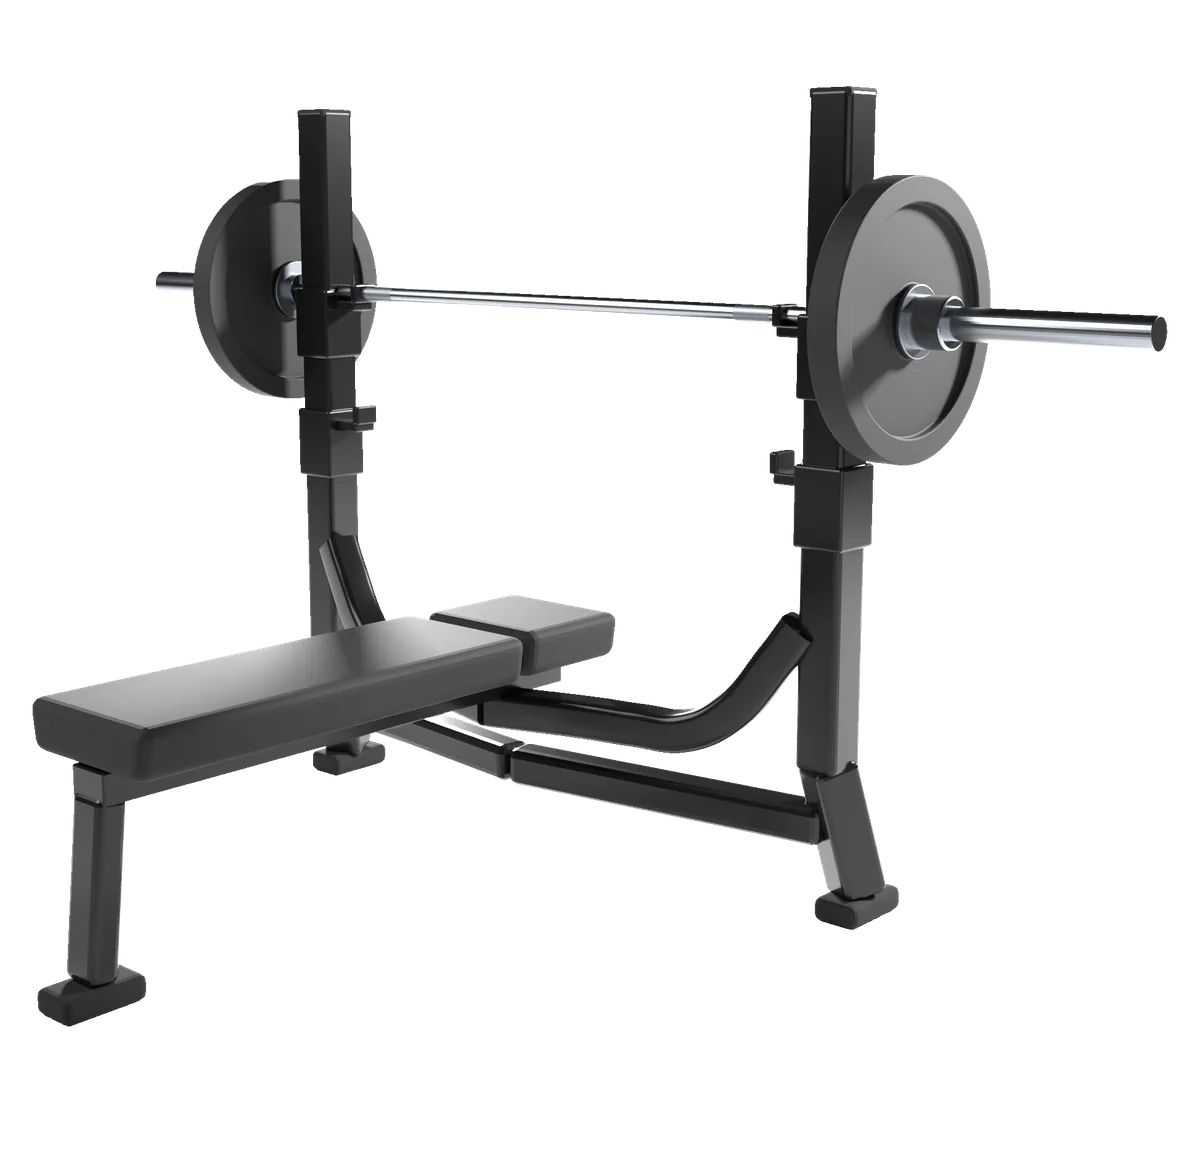
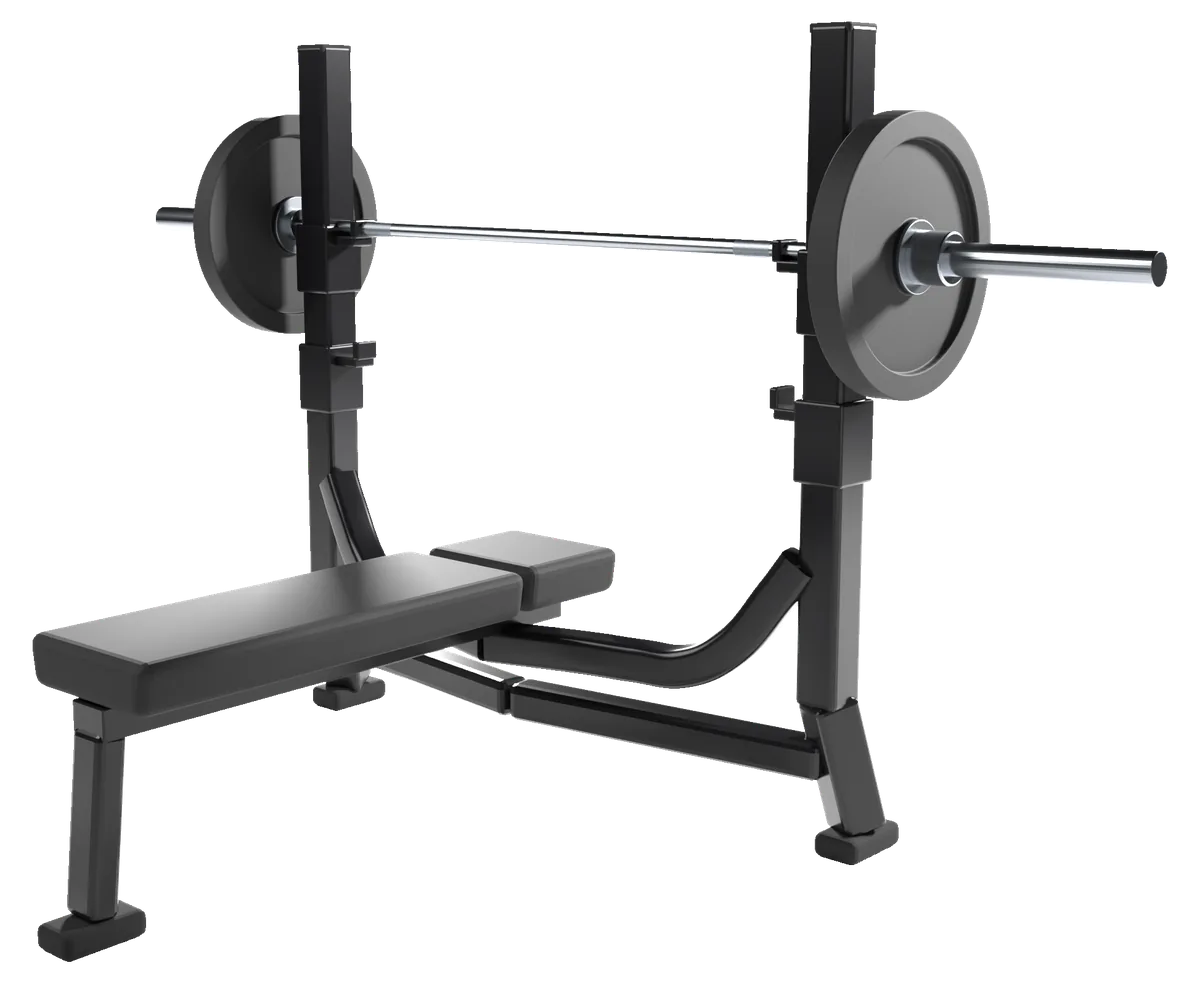
fix(web): the notch cannot crop the bench, and the title sits on it (#99)
The hero shipped as `object-cover` on a box sized 45vh *plus* the status
bar inset. On a 59px notch that box is narrower than the art, so cover
trimmed 31px off each side and cut the end off the bench. Chromium reports
a zero inset, so nothing local showed it.

Two changes remove the class of bug rather than the instance. The inset is
no longer added to the height, so 45% of the screen is 45% of the screen.
And the art is cut to 1.22 — wider than any hero box can be — then laid in
at `w-full` with its natural height, so filling the width is the only
outcome available whatever the inset does. The e2e test sets the inset by
hand at 59px, 47px and 0px and checks the art keeps its aspect at each.

The title moves onto the bench, across the pad and frame with the base
showing below, rather than sitting in the space underneath where it read
as a caption. Its offset is tied to `--hero-h`: pixels drift as the hero
grows, and a percentage padding resolves against the width in CSS.

The image drops to opacity 0.5, since it is now behind text rather than
under it. Measured on the rendered pixels: title 7.6:1 dark and 8.6:1
light, aliases 6.2:1 and 5.8:1, and 5.9:1 for the worst a two-line name
reaches.

diff --git a/apps/web/src/components/ExerciseHero.tsx b/apps/web/src/components/ExerciseHero.tsx
@@ -9,24 +9,39 @@ import { equipmentArt } from './equipment-art.js';
  * no placeholder, because a grey rectangle where a photograph should be is
  * worse than a heading.
  *
+ * ## The render is never cropped, by construction
+ *
+ * It used to be `object-cover` on a box the right shape, which was fine until a
+ * real phone: the hero's height is 45vh *plus the status bar inset*, and a 59px
+ * notch makes the box narrower than the art, so cover trimmed 31px off each
+ * side and cut the end off the bench. Chromium reports a zero inset, so no
+ * amount of testing there would have shown it.
+ *
+ * So the fit no longer depends on the box. The art is cut to 1.22 — wider than
+ * any hero can be, since the tallest case is a narrow phone with a big notch —
+ * and the image is laid in at `w-full` with its natural height. Filling the
+ * width is then the only outcome available, whatever the inset does to the
+ * height, and the slack lands at the top, behind the status bar, where it is
+ * wanted. `max-h-full` is there for a landscape window and nothing else.
+ *
  * ## Why the image is dimmed rather than darkened
  *
  * The bench is black and grey and the page is #1f1e1d, so the render has very
  * little room between "invisible" and "competing with the title". Three things
- * share the work, and only the first two touch the image:
+ * share the work, and only the first touches the image:
  *
- *  - **Opacity 0.65.** Inside the brief's 0.6–0.7. The bar and plates are the
- *    lit parts of the render and stay clearly readable; the frame drops to a
- *    shade above the page.
- *  - **A short top wash**, 60% of the page colour fading out by 30%. It exists
- *    for the status bar and the back button, not for the image.
+ *  - **Opacity 0.5.** The title sits *on* the bench rather than under it, so
+ *    the render has to sit further back than it would as a backdrop below the
+ *    text. The bar and plates are the lit parts and still read.
+ *  - **A short top wash**, 50% of the page colour fading out by a quarter. It
+ *    exists for the status bar and the back button, not for the image.
  *  - **A long bottom wash** reaching the full page colour before the hero ends,
  *    so there is no seam where the image stops — the page simply continues.
  *
  * The title gets its contrast from the third of those, not from a shadow or a
- * glow. Measured on the rendered pixels it sits on at least 86% page colour,
- * which is 14:1 against `--text-primary` in both themes — so the gradient alone
- * clears AA with room to spare and the image never has to go darker.
+ * glow. Measured on the rendered pixels it sits on at least 81% page colour,
+ * which clears AA several times over in both themes — so the gradient alone
+ * does it and the image never has to go darker.
  *
  * ## Both themes, from one asset
  *
@@ -59,34 +74,43 @@ export function ExerciseHero({
 
   return (
     <div
-      // `-mx-4` cancels the page's gutter so the render reaches both edges, and
-      // the height carries the status bar inset on top of its own, so the image
-      // runs up behind the clock rather than starting under it.
-      className="relative -mx-4 h-[calc(clamp(300px,45vh,400px)+var(--spacing-safe-top))] overflow-hidden"
+      // `-mx-4` cancels the page's gutter so the render reaches both edges. The
+      // box starts at the very top of the screen — the page drops its own top
+      // inset when a hero is present — so 45% of the screen is 45% of the
+      // screen, notch included, rather than 45% plus a notch.
+      className="relative -mx-4 h-[var(--hero-h)] overflow-hidden [--hero-h:clamp(300px,45vh,400px)]"
     >
-      <img
-        src={art.hero}
-        alt=""
+      {/* Bottom-aligned inside the box, so the bench always lands in the same
+          place relative to the title and the notch only ever changes how much
+          page shows above it. */}
+      <div aria-hidden className="absolute inset-0 flex items-end pb-6">
+        <img
+          src={art.hero}
+          alt=""
+          className="max-h-full w-full object-contain object-bottom opacity-50"
+        />
+      </div>
+      <div
         aria-hidden
-        className="absolute inset-0 size-full object-cover opacity-65"
+        className="absolute inset-x-0 top-0 h-[25%] bg-linear-to-b from-base/50 to-base/0"
       />
       <div
         aria-hidden
-        className="absolute inset-x-0 top-0 h-[30%] bg-linear-to-b from-base/60 to-base/0"
-      />
-      <div
-        aria-hidden
-        className="absolute inset-x-0 bottom-0 h-[62%] bg-linear-to-t from-base from-13% via-base/72 via-48% to-base/0"
+        className="absolute inset-x-0 bottom-0 h-[70%] bg-linear-to-t from-base from-7% via-base/68 via-45% to-base/0"
       />
 
       <div className="relative flex h-full flex-col px-4 pt-safe-top">
         <div className="pt-6">
           <HeaderLink to="/exercises">← All exercises</HeaderLink>
         </div>
-        {/* Pushed to the bottom, where the wash is at its strongest. A long
-            name growing to two lines therefore grows upward into the calm part
-            of the image rather than down towards the chips. */}
-        <div className="mt-auto pb-5">
+        {/* Across the bench itself, not under it — a quarter of the hero up
+            from the bottom, which lands on the pad and the frame and leaves the
+            base showing below. Tied to `--hero-h` rather than set in pixels so
+            it stays on the same part of the bench at every hero size; a
+            percentage would resolve against the width and drift. A long name
+            growing to two lines grows upward into the calmer part of the
+            image rather than down towards the chips. */}
+        <div className="mt-auto pb-[calc(var(--hero-h)*0.25)]">
           <h1 className="text-2xl font-semibold text-balance text-primary">{name}</h1>
           {aliases.length > 0 && (
             <p className="mt-1 text-sm text-secondary">Also called {aliases.join(', ')}</p>

diff --git a/e2e/tests/exercise-hero.spec.ts b/e2e/tests/exercise-hero.spec.ts
@@ -2,45 +2,56 @@ import { expect, test } from '@playwright/test';
 import { createUser } from './support/backend.js';
 import { signIn } from './support/app.js';
 
+/** The aspect the hero art is cut to. The bench fills it corner to corner. */
+const ART_ASPECT = 1200 / 984;
+
 /**
  * The render behind an exercise's title.
  *
- * One exercise has a hero and fifty-two do not, so the two things worth holding
- * are that the one with a render gets a full-bleed image and exactly one title,
- * and that the ones without keep the plain header they have always had. A
- * second <h1> would be the obvious regression — the hero carries the name, and
- * the detail below it used to.
+ * The thing worth holding is that the render is never cropped. It shipped once
+ * as `object-cover` on a box sized 45vh *plus the status-bar inset*, which on a
+ * notched phone is narrower than the art — so cover trimmed both ends off the
+ * bench. Chromium reports a zero inset and showed none of it, so the inset is
+ * set by hand here and the art's aspect is checked at each one.
  */
-test('an exercise with a hero wears it full-bleed, and one without is unchanged', async ({
-  page,
-}) => {
+test('the hero fills the width and is never cropped, whatever the notch', async ({ page }) => {
   const user = await createUser('hero', { onboarded: true });
   await signIn(page, user);
 
+  await page.setViewportSize({ width: 393, height: 852 });
   await page.goto('/#/exercises/barbell-bench-press');
   const title = page.getByRole('heading', { level: 1, name: 'Barbell Bench Press' });
   await expect(title).toBeVisible();
   // The name is said once. It lived in the detail block before the hero took it.
   await expect(page.getByRole('heading', { level: 1 })).toHaveCount(1);
 
-  // Edge to edge: `-mx-4` cancelling the page gutter is what makes this a hero
-  // rather than a picture in a column, and it is one class away from being lost.
   const hero = page.locator('img[src*="bench-press-hero"]');
   await expect(hero).toBeVisible();
-  const frame = await hero.boundingBox();
-  const width = page.viewportSize()?.width ?? 0;
-  expect(frame?.x).toBeCloseTo(0, 0);
-  expect(frame?.width).toBeCloseTo(width, 0);
-  // Behind the status bar, not under it.
-  expect(frame?.y).toBeCloseTo(0, 0);
-  // Roughly 45% of the screen, per the brief, and never the whole of it.
-  const height = page.viewportSize()?.height ?? 0;
-  expect(frame?.height ?? 0).toBeGreaterThan(height * 0.3);
-  expect(frame?.height ?? 0).toBeLessThan(height * 0.55);
 
-  // The way back is still there, over the image.
+  // A big notch, a small one, and none: the art keeps its shape through all of
+  // them, which is what says no edge of the bench has been trimmed off.
+  for (const inset of ['59px', '47px', '0px']) {
+    await page.evaluate((value) => {
+      document.documentElement.style.setProperty('--spacing-safe-top', value);
+    }, inset);
+    const frame = await hero.boundingBox();
+    expect(frame, inset).not.toBeNull();
+    expect(frame?.x, inset).toBeCloseTo(0, 0);
+    expect(frame?.width, inset).toBeCloseTo(393, 0);
+    expect((frame?.width ?? 0) / (frame?.height ?? 1)).toBeCloseTo(ART_ASPECT, 2);
+  }
+  await page.evaluate(() => {
+    document.documentElement.style.removeProperty('--spacing-safe-top');
+  });
+
+  // The title sits on the render rather than under it.
+  const frame = await hero.boundingBox();
+  const text = await title.boundingBox();
+  expect(text?.y ?? 0).toBeGreaterThan(frame?.y ?? 0);
+  expect((text?.y ?? 0) + (text?.height ?? 0)).toBeLessThan((frame?.y ?? 0) + (frame?.height ?? 0));
+
+  // The way back is still there, over the image, and the aliases under the name.
   await expect(page.getByRole('link', { name: '← All exercises' })).toBeVisible();
-  // And the aliases still sit under the name.
   await expect(page.getByText(/^Also called bench, bp/)).toBeVisible();
 
   // An exercise with no render keeps the plain header: no image, same title.

diff --git a/DECISIONS.md b/DECISIONS.md
@@ -4834,8 +4834,10 @@ one, and the app now has a 3D bench that the list was already showing at 56px.
 ### Decision
 
 **A hero render behind the title, for exercises that have one.** Full-bleed,
-running up behind the status bar, about 45% of the screen. The title sits over
-its lower third and the page continues underneath with no seam.
+running up behind the status bar, about 45% of the screen. The title sits *on*
+the bench — across the pad and frame, with the base still showing below it —
+rather than in the space underneath, where it read as a caption under a
+photograph instead of a title over one.
 
 **One table for both surfaces.** `equipment-art.ts` maps an exercise slug to an
 `{ icon, hero }` pair, and both the list square and the page hero read it. Two
@@ -4844,13 +4846,26 @@ its own page, which is the sort of thing nobody notices until it is everywhere.
 Adding a piece of kit is one constant and one line; adding an exercise to kit
 that already exists is one line.
 
-**Three things do the dimming, and only two touch the image.** Opacity 0.65, a
-short top wash for the status bar and the back button, and a long bottom wash
-that reaches the full page colour before the hero ends. The title takes its
-contrast from the third of those — measured on the rendered pixels it sits on
-13.6:1 in the dark theme and 11.7:1 in the light one, and 6.1:1 in the worst
-case a two-line name can reach, which is up into the lit barbell. No text
-shadow, no glow: the brief asked for the gradient to do it, and it can.
+**The fit cannot crop, by construction.** This started as `object-cover` on a
+box of the right shape, which held until a real phone: the hero's height is 45vh
+*plus the status-bar inset*, and a 59px notch makes the box narrower than the
+art, so cover trimmed 31px off each side and cut the end off the bench.
+Chromium reports a zero inset, so no amount of testing there would have shown
+it. Two changes remove the class of bug rather than the instance. The inset is
+no longer added to the height — 45% of the screen is 45% of the screen, notch
+included — and the art is cut to 1.22, wider than any hero box can be, then laid
+in at `w-full` with its natural height. Filling the width is then the only
+outcome available whatever the inset does, and the slack lands at the top,
+behind the status bar, where it is wanted.
+
+**Three things do the dimming, and only one touches the image.** Opacity 0.5 —
+lower than a backdrop would need, because the title sits on the bench rather
+than under it — a short top wash for the status bar and the back button, and a
+long bottom wash. The title takes its contrast from the third of those. Measured
+on the rendered pixels: 7.6:1 for the title and 6.2:1 for the aliases in the
+dark theme, 8.6:1 and 5.8:1 in the light one, and 5.9:1 for the worst a
+two-line name reaches, which is up into the lit barbell. No text shadow, no
+glow: the brief asked for the gradient to do it, and it can.
 
 **The baked drop shadow is cut out of the asset.** The render ships with one:
 pure black at partial alpha, made for a light backdrop. It is invisible on the
@@ -4858,6 +4873,12 @@ dark theme and a grey smear across the bottom of the hero on the light one. The
 object is solid at alpha 255 and the shadow never is, so a threshold separates
 them cleanly and the downscale rebuilds the edges. The bottom wash does the
 grounding instead, in whichever colour the page is.
+
+**The title's height is tied to `--hero-h`, not to pixels or a percentage.** It
+has to land on the same part of the bench at every hero size. Pixels drift as
+the hero grows; a percentage padding resolves against the *width* in CSS, not
+the height, so it drifts too. One custom property sets the hero's height and the
+title's offset from it.
 
 **WebP for the hero, PNG for the icon.** Everything in `dist` is precached, so
 a hero is bytes every install pays before it opens anything. At 1200px — three
@@ -4896,10 +4917,16 @@ about the other. The e2e test asserts both: full-bleed and exactly one `<h1>`
 for the bench, plain header and no image for a dumbbell press.
 
 A two-line name reaches up into the lit part of the barbell, which is the
-weakest contrast on the screen at 6.1:1. It clears AA and would not clear AAA.
+weakest contrast on the screen at 5.9:1. It clears AA and would not clear AAA.
 A name long enough to take three lines would reach further; none in the
 catalogue does, and the title is balanced rather than ragged so the second line
 carries roughly half.
+
+The status-bar inset is not something Chromium can be asked for, so the e2e
+check sets `--spacing-safe-top` by hand and shoots the hero at 59px, 47px and
+0px. The composition is now identical at all three — the inset only changes how
+much page shows above the bench — which is the property that was missing when
+this shipped the first time.
 
 The light theme shows the render much more brightly than the dark one, because
 a dark object on cream separates by luminance where on near-black it barely
